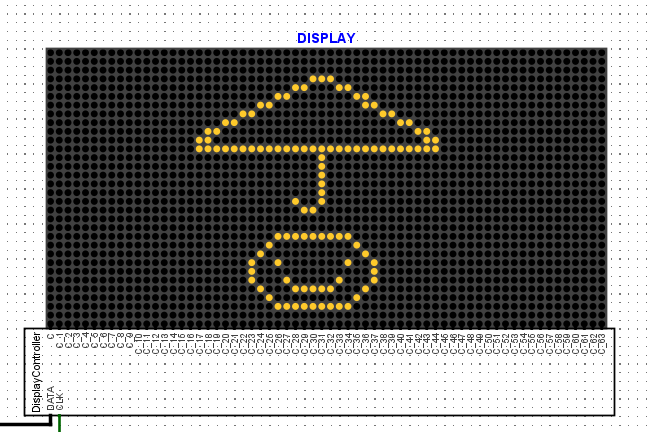
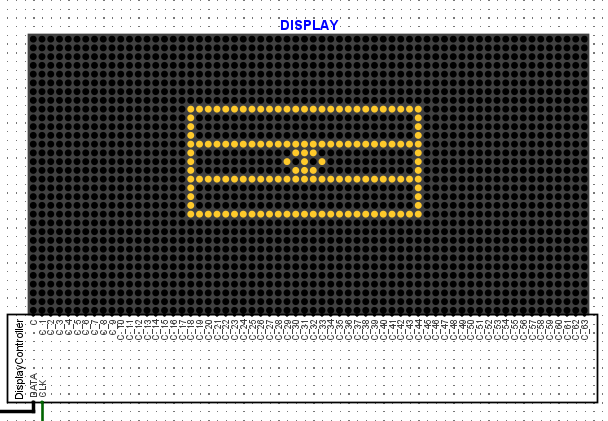
use different example for display

diff --git a/docs/display.md b/docs/display.md
@@ -46,7 +46,7 @@ We can also provide it a 64x32 1-bit image formatted with pixel ON as '#' and OF
 I have also included some 1-bit images in `examples/art` that can be parsed by shilpi and rendered on Sutra-1
 
 ```shell
-python shilpi.py examples/art/umbrella.txt
+python shilpi.py examples/art/india.txt
 ```
 
 This generates an output assembly file with the name `art.S` which can then be compiled by rochoyita
